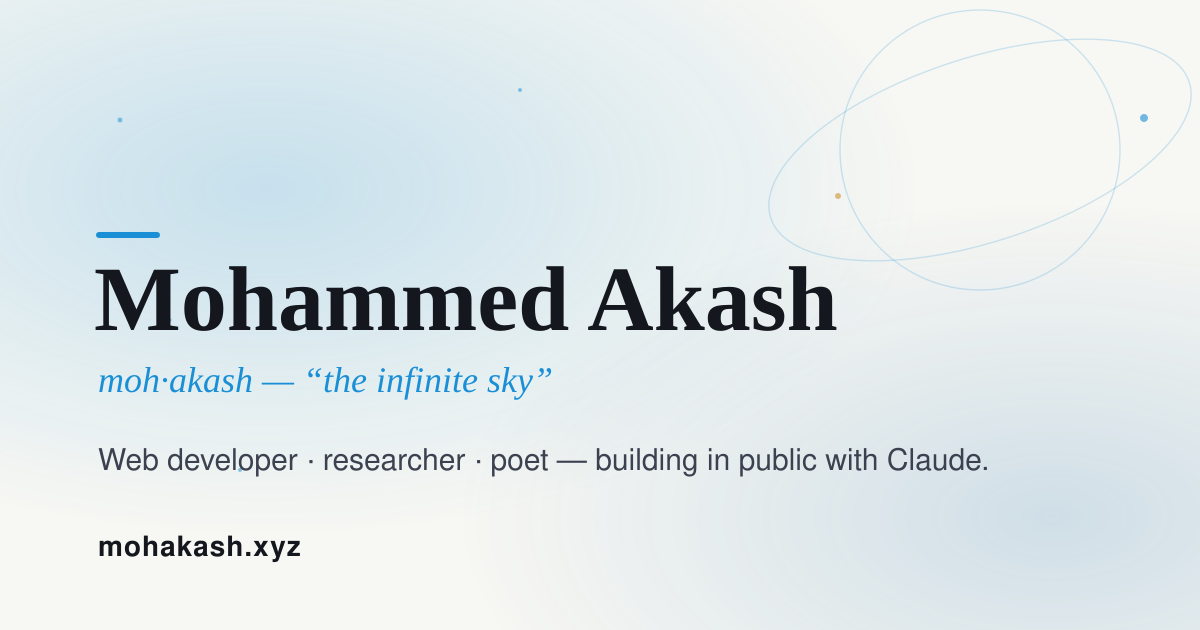
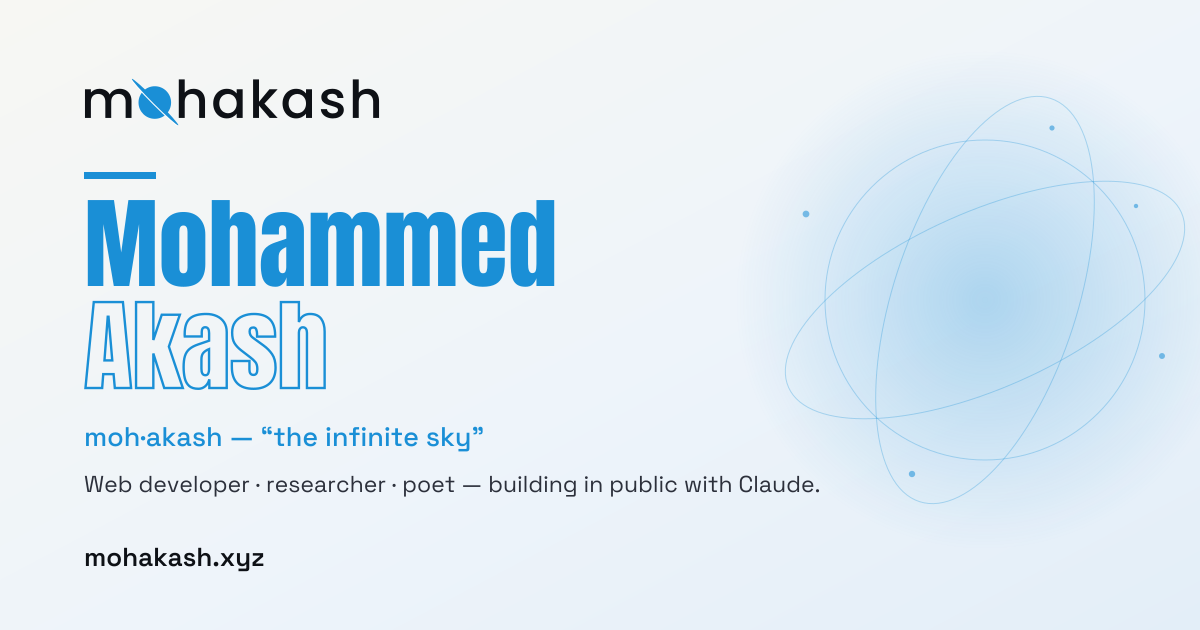
Remove dead files and bring the social card back on brand
Audited everything outside src/content against actual references. Every
component, config module, Pages Function and remaining upload is in use;
these four were not:

  public/mohammed-akash-light.png   byte-identical to uploads/portraitLight
  public/mohammed-akash-dark.png    byte-identical to uploads/portraitDark
  public/portrait.svg               the placeholder silhouette, long replaced
  uploads/on-thinking-in-public/    cover for a post that does not exist

Dependencies were wrong in both directions: @tailwindcss/vite was declared but
unused (Tailwind runs through PostCSS), while sharp was imported by both build
scripts without being declared at all, working only because Astro happens to
bundle a copy. Dropped the first, declared the second.

The uploads that were in use but unnamed (a.png, a.webp, two "Screenshot
from ..." files whose spaces get percent-encoded in URLs) are renamed for what
they actually show, with the five posts referencing them updated.

og.svg had drifted badly off brand — a serif face from the retired Fraunces
era, the old #14171d/#3c4150 neutrals, and a gold dot from a palette that was
dropped. It is rebuilt on the current brand: Anton and Space Grotesk, current
palette, the real logo mark, and the homepage hero's own treatment of the name
(first solid, surname outlined).

The type is baked to outlines, because the brand faces ship as web fonts that
fontconfig cannot see — a renderer would silently substitute something else.
[…]

diff --git a/scripts/build-og-text.py b/scripts/build-og-text.py
@@ -1,0 +1,119 @@
+#!/usr/bin/env python3
+"""Regenerate public/og.svg — the social preview card.
+
+Only needed when the card's TEXT changes. The type is baked into the SVG as
+outlines, so nothing here runs during a normal build: `node scripts/build-og.mjs`
+rasterises the committed og.svg to og.png and needs no Python and no fonts.
+
+Outlines rather than <text> because the brand faces (Anton, Space Grotesk) ship
+as web fonts that fontconfig can't see, so a renderer would silently substitute
+something else. Paths render identically everywhere.
+
+Requires fonttools + brotli (Space Grotesk ships woff2). If they aren't on the
+system Python, use a throwaway venv:
+    python3 -m venv /tmp/ogvenv && /tmp/ogvenv/bin/pip install fonttools brotli
+    /tmp/ogvenv/bin/python scripts/build-og-text.py
+"""
+import pathlib
+from fontTools.ttLib import TTFont
+from fontTools.pens.svgPathPen import SVGPathPen
+from fontTools.pens.transformPen import TransformPen
+from fontTools.misc.transform import Transform
+from fontTools.varLib import instancer
+
+ROOT = pathlib.Path(__file__).resolve().parent.parent
+ANTON = ROOT / "node_modules/@fontsource/anton/files/anton-latin-400-normal.woff"
+GROTESK = ROOT / "node_modules/@fontsource-variable/space-grotesk/files/space-grotesk-latin-wght-normal.woff2"
+
+# Site palette (src/styles/global.css). No gold — it was retired from the brand.
+ACCENT, TEXT, MUTED, BG = "#1a8fd6", "#0e1116", "#2c303b", "#f7f7f3"
+
+_cache = {}
+def load(which, wght=400):
+    key = (which, wght)
+    if key not in _cache:
+        if which == "anton":
+            f = TTFont(ANTON)
+        else:
+            f = TTFont(GROTESK)
+            if "fvar" in f:
+                f = instancer.instantiateVariableFont(f, {"wght": wght})
+        _cache[key] = f
+    return _cache[key]
+
+def text_path(text, which, size, x, y, wght=400, tracking=0.0):
+    """SVG path data for `text`, baseline at (x, y). Advance widths only — no
+    kerning, which at these sizes is not visible."""
+    f = load(which, wght)
+    upm = f["head"].unitsPerEm
+    cmap, gs, hmtx = f.getBestCmap(), f.getGlyphSet(), f["hmtx"]
+    scale = size / upm
+    parts, cursor, missing = [], 0.0, []
+    for ch in text:
+        gname = cmap.get(ord(ch))
+        if gname is None:
+            missing.append(ch); cursor += 0.5 * upm; continue
+        spen = SVGPathPen(gs)
+        gs[gname].draw(TransformPen(spen, Transform(scale, 0, 0, -scale, x + cursor * scale, y)))
+        if (d := spen.getCommands()):
+            parts.append(d)
+        cursor += hmtx[gname][0] + tracking * upm
+    if missing:
+        raise SystemExit(f"Font is missing glyphs for {missing!r} in {text!r}")
+    return " ".join(parts), cursor * scale
+
+W, H = 1200, 630
+M = 84  # left margin
+
+# Mirrors the homepage hero: first name solid, surname outlined.
+lead_d, _ = text_path("Mohammed", "anton", 100, M, 286)
+rest_d, _ = text_path("Akash", "anton", 100, M, 388)
+hook_d, _ = text_path("moh·akash — “the infinite sky”", "grotesk", 27, M, 446, wght=500)
+tag_d, _ = text_path("Web developer · researcher · poet — building in public with Claude.",
+                     "grotesk", 23, M, 492, wght=400)
+url_d, _ = text_path("mohakash.xyz", "grotesk", 26, M, 566, wght=600)
+
+svg = f'''<svg xmlns="http://www.w3.org/2000/svg" width="{W}" height="{H}" viewBox="0 0 {W} {H}">
+  <!-- Social preview card. Generated by scripts/build-og-text.py; the type is
+       outlines, so this file renders the same anywhere. Rasterise with
+       `node scripts/build-og.mjs`, which also composites the logo mark. -->
+  <defs>
+    <linearGradient id="sky" x1="0" y1="0" x2="1" y2="1">
+      <stop offset="0" stop-color="{BG}"/>
+      <stop offset="0.55" stop-color="#eef4fa"/>
+      <stop offset="1" stop-color="#e3eef8"/>
+    </linearGradient>
+    <radialGradient id="glow" cx="0.5" cy="0.5" r="0.5">
+      <stop offset="0" stop-color="{ACCENT}" stop-opacity="0.30"/>
+      <stop offset="1" stop-color="{ACCENT}" stop-opacity="0"/>
+    </radialGradient>
+  </defs>
+
+  <rect width="{W}" height="{H}" fill="url(#sky)"/>
+
+  <!-- cosmic field, right side -->
+  <circle cx="985" cy="300" r="250" fill="url(#glow)"/>
+  <g fill="none" stroke="{ACCENT}" stroke-opacity="0.30">
+    <ellipse cx="985" cy="300" rx="215" ry="88" transform="rotate(-24 985 300)"/>
+    <ellipse cx="985" cy="300" rx="160" ry="160"/>
+    <ellipse cx="985" cy="300" rx="92" ry="212" transform="rotate(18 985 300)"/>
+  </g>
+  <g fill="{ACCENT}" fill-opacity="0.55">
+    <circle cx="806" cy="214" r="3.4"/><circle cx="1162" cy="356" r="3"/>
+    <circle cx="1052" cy="128" r="2.6"/><circle cx="912" cy="474" r="3.2"/>
+    <circle cx="1136" cy="206" r="2.2"/>
+  </g>
+
+  <!-- accent rule above the name -->
+  <rect x="{M}" y="172" width="72" height="7" fill="{ACCENT}"/>
+
+  <path d="{lead_d}" fill="{ACCENT}"/>
+  <path d="{rest_d}" fill="none" stroke="{ACCENT}" stroke-width="2.4"/>
+  <path d="{hook_d}" fill="{ACCENT}"/>
+  <path d="{tag_d}" fill="{MUTED}"/>
+  <path d="{url_d}" fill="{TEXT}"/>
+</svg>
+'''
+out = ROOT / "public/og.svg"
+out.write_text(svg, encoding="utf-8")
+print(f"Wrote {out.relative_to(ROOT)} ({len(svg)} bytes)")

diff --git a/src/content/blog/building-with-claude-certificates-are-a-consequence-not-a-cause.md b/src/content/blog/building-with-claude-certificates-are-a-consequence-not-a-cause.md
@@ -5,7 +5,7 @@ category: Building with Claude
 excerpt: 'Getting a web app from "works on my laptop" to "live on the internet with HTTPS" is one of those tasks that looks like ten minutes and turns into an afternoon. Today I moved a Python web app onto a server that already hosts a dozen other sites, and I got bitten by two things that had nothing to do with each other: a shell-parsing bug in a secrets file, and a CDN error code that pointed me in exactly the wrong direction.'
 draft: false
 hidden: false
-cover: /uploads/Screenshot from 2026-08-06 23-34-22.png
+cover: /uploads/backatit-settings.png
 resources: []
 ---
 

diff --git a/src/content/blog/building-with-claude-2026-06-23-inspect-before-you-mutate-shared-infrastructure.md b/src/content/blog/building-with-claude-2026-06-23-inspect-before-you-mutate-shared-infrastructure.md
@@ -5,7 +5,7 @@ category: Building with Claude
 excerpt: "I set out to do something that sounded simple: deploy a web app onto a server I already owned. A few hours later I'd learned that the riskiest part of deployment isn't the app at all — it's the moment you touch configuration that other things quietly depend on. This is a story about breaking a bunch of unrelated sites, recovering them, and walking away with a much better mental model for working on shared infrastructure."
 draft: false
 hidden: false
-cover: /uploads/a.png
+cover: /uploads/cloudflare-ssl-handshake-failed.png
 resources: []
 ---
 

diff --git a/src/content/blog/building-with-claude-june-21-2026-correct-markup-isn-t-a-working-feature.md b/src/content/blog/building-with-claude-june-21-2026-correct-markup-isn-t-a-working-feature.md
@@ -5,7 +5,7 @@ category: Building with Claude
 excerpt: Today was one of those debugging sessions that humbles you — or in this case, humbles the AI I was pairing with. What started as a simple "hey, can you check how this form works?" turned into a multi-hour investigation across email plumbing, magic links, and a YouTube embed that refused to cooperate. Here's the honest account.
 draft: false
 hidden: false
-cover: /uploads/a.webp
+cover: /uploads/youtube-embed-error-153.webp
 resources: []
 ---
 

diff --git a/src/content/projects/backatit-—-the-break-reminder-that-makes-you-come-back.md b/src/content/projects/backatit-—-the-break-reminder-that-makes-you-come-back.md
@@ -14,7 +14,7 @@ repo: https://github.com/akashmony01/BackAtIt
 featured: true
 hidden: false
 order: 1
-cover: /uploads/Screenshot from 2026-08-06 23-34-22.png
+cover: /uploads/backatit-settings.png
 resources:
   - label: Download for Linux
     href: https://github.com/akashmony01/BackAtIt/releases/latest

diff --git a/src/content/projects/personal-site.md b/src/content/projects/personal-site.md
@@ -12,7 +12,7 @@ link: ''
 repo: https://github.com/akashmony01/mohakash
 featured: true
 order: 0
-cover: /uploads/Screenshot from 2026-08-06 23-44-25.png
+cover: /uploads/mohakash-homepage.png
 resources:
   - label: Live site
     href: https://mohakash.xyz
